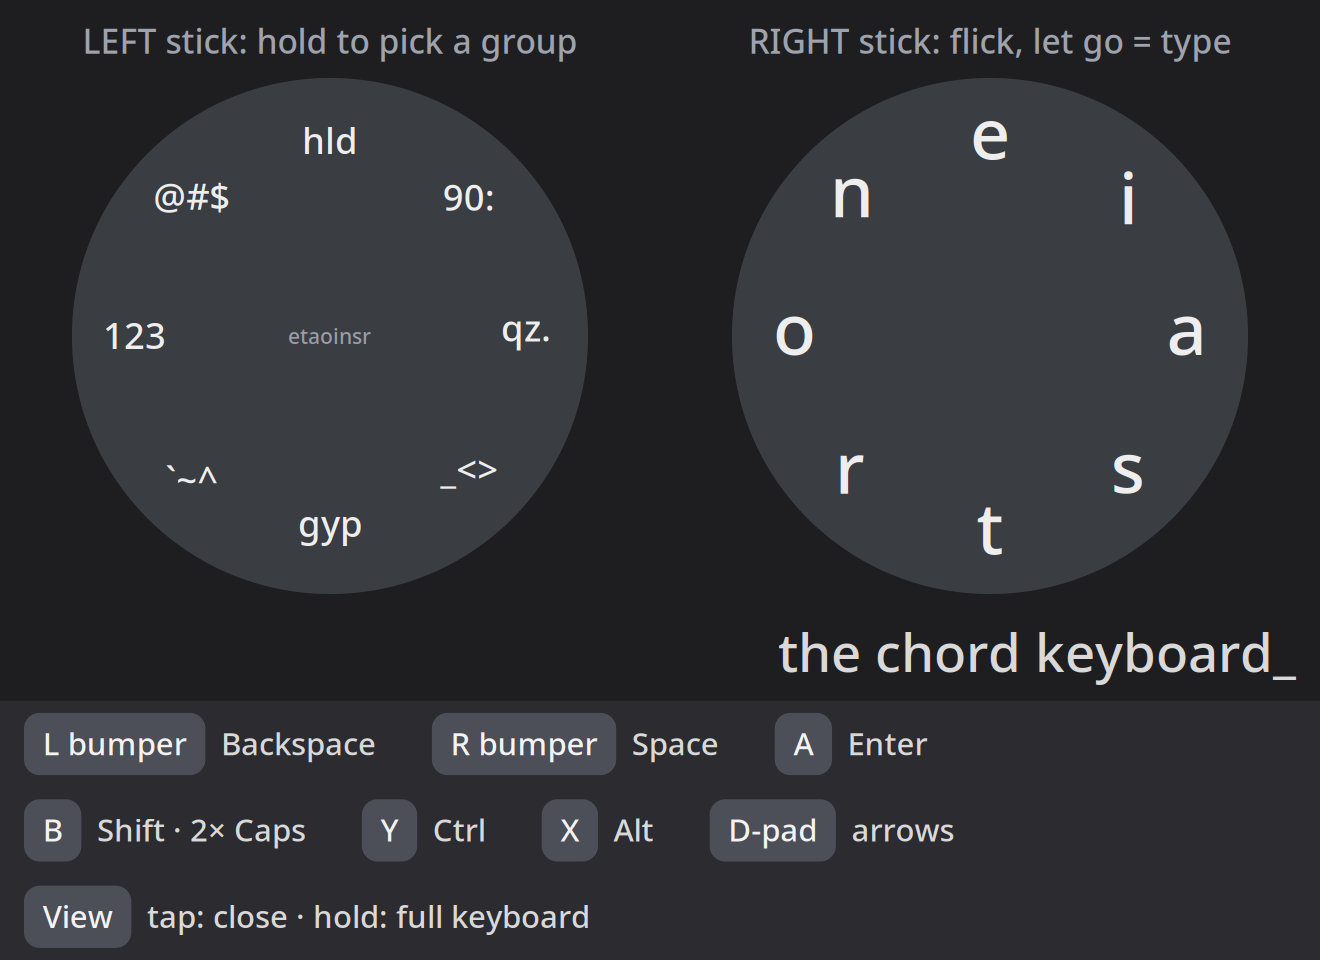
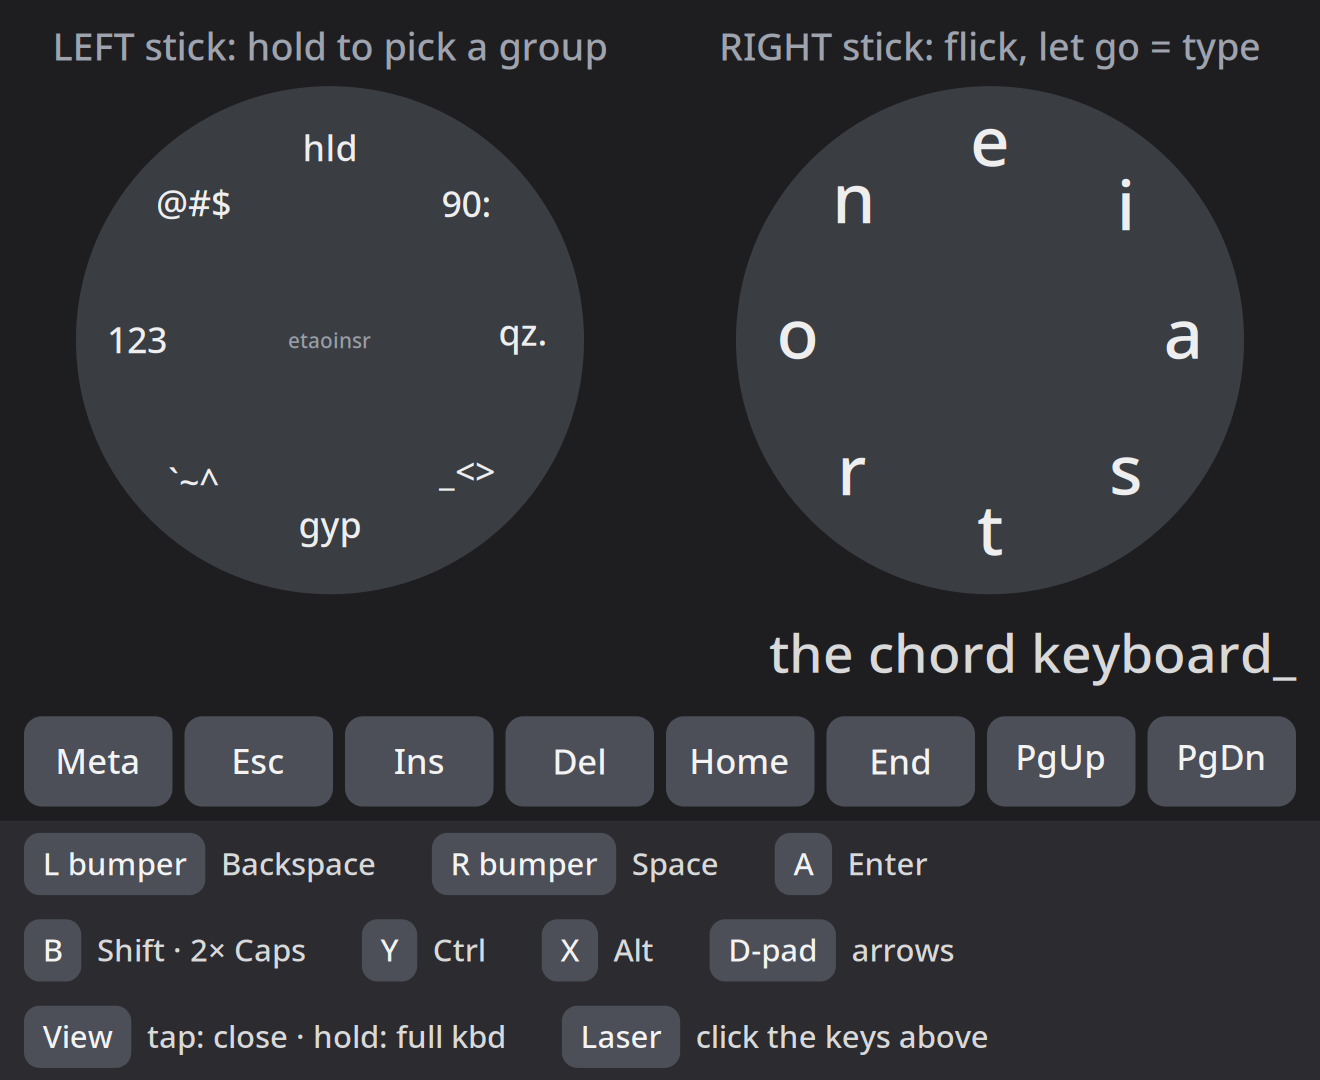
ft-chord: laser-clickable keys, no grips, fix repeated input
- Add a row of keys on the HUD that the laser can click: Meta, Esc, Ins,
  Del, Home, End, PgUp and PgDn. Meta latches for the next key; clicking
  it twice sends a plain Meta tap.
- Stop using the grips. Squeezing one also wakes or claims SteamVR's laser.
- Subscribe to each controller only once per web socket connection. The
  30 s re-lookup subscribed again each time, so every message, and every
  button press, arrived several times.
- README: close the HUD to scroll, since the sticks also scroll whatever
  the laser points at.
- Update the rebuild prompt and the screenshots to match.

diff --git a/README.md b/README.md
@@ -4,7 +4,7 @@ On-screen keyboards for typing on a Steam Frame's [Frametop](https://github.com/
 
 ![ft-chord HUD](images/ft-chord-typing.png)
 
-- **ft-chord**: a chord keyboard. Hold the left stick in a direction to pick a group of 8 characters, then flick the right stick and let go to type one. With the left stick centred, the right stick types the 8 most common letters (e t a o i n s r). Bumpers are Backspace and Space, A is Enter, B is Shift (twice for Caps), Y and X are Ctrl and Alt, and the left d-pad gives arrows. The legend on the HUD shows all of this.
+- **ft-chord**: a chord keyboard. Hold the left stick in a direction to pick a group of 8 characters, then flick the right stick and let go to type one. With the left stick centred, the right stick types the 8 most common letters (e t a o i n s r). Bumpers are Backspace and Space, A is Enter, B is Shift (twice for Caps), Y and X are Ctrl and Alt, and the left d-pad gives arrows. A row of keys on the HUD, clicked with the laser, has Meta, Esc, Ins, Del, Home, End, PgUp and PgDn. The legend on the HUD shows all of this. The sticks also scroll whatever the laser points at, so close the HUD (tap the left view button) when you want to scroll.
 - **ft-keyboard**: a full 104-key keyboard (F-keys, navigation block, numpad) as a floating window.
 - **ft-chord --watch**: watches the left view button. A tap toggles ft-chord, and a hold toggles ft-keyboard.
 
